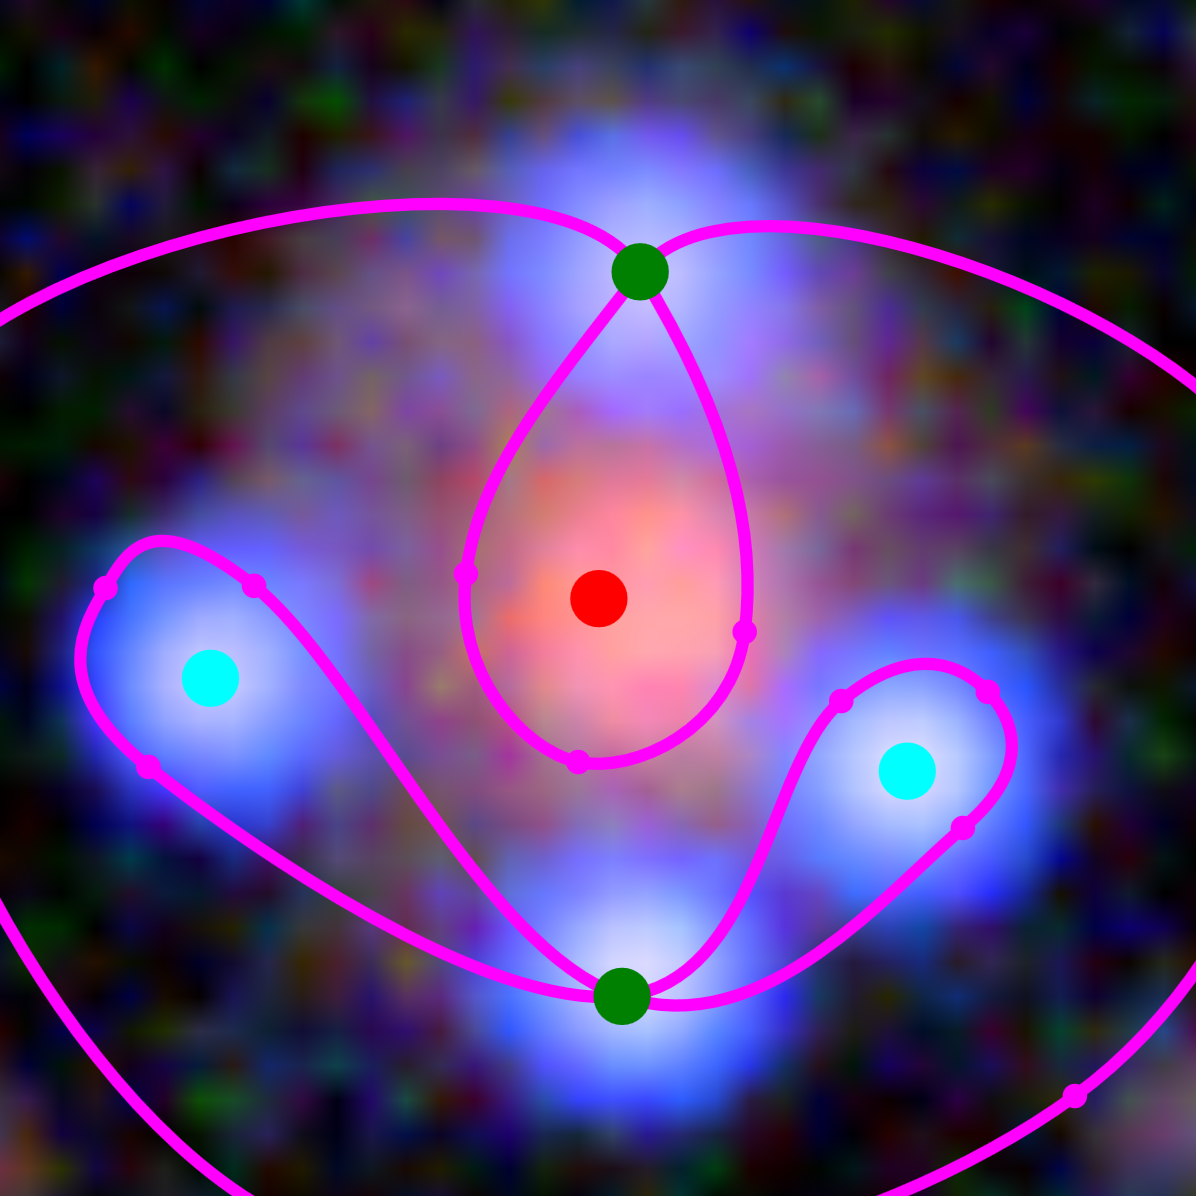
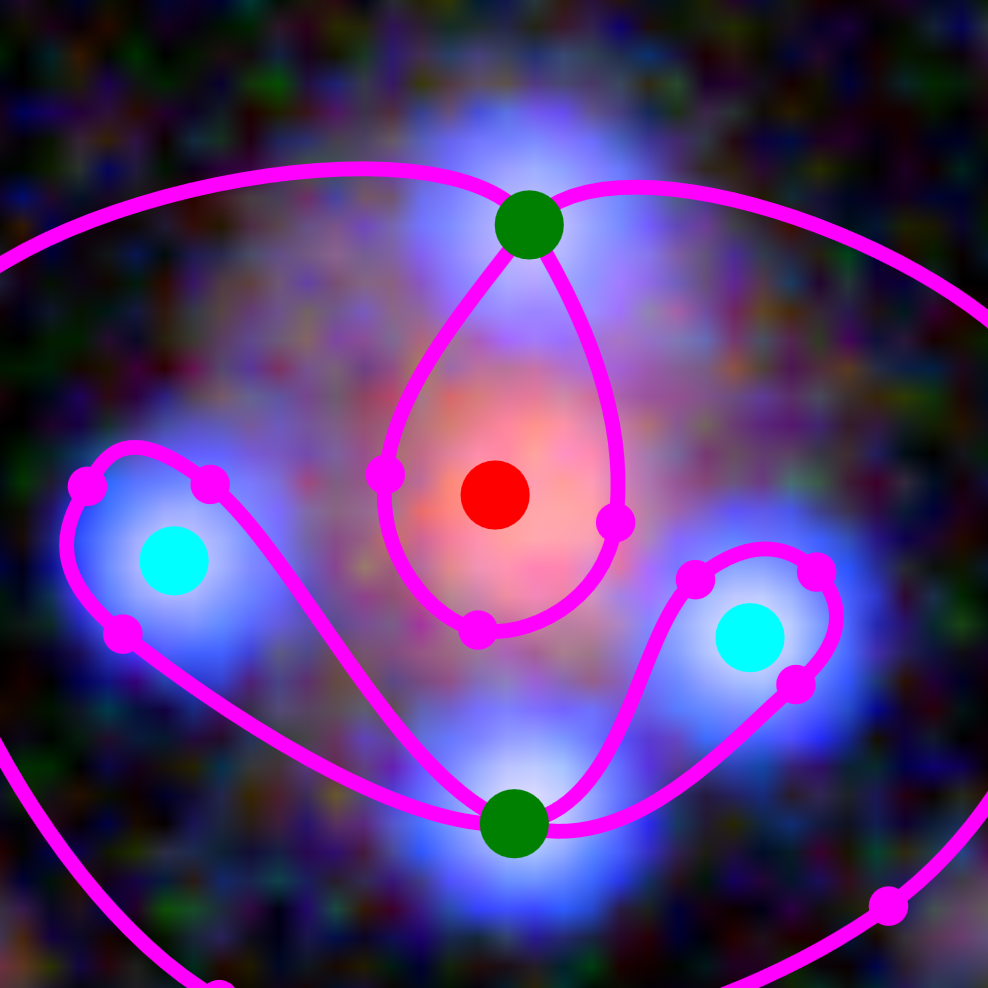
uniform inp imgs

diff --git a/plots/adv_inp/grab_svg.js b/plots/adv_inp/grab_svg.js
@@ -42,16 +42,34 @@ mids = "
     canvas.style.width  = '2048px';
     canvas.style.height = '2048px';
 
-    var f = 2; //scale factor for line widths ect..
+    //var f = 2; //scale factor for line widths ect..
+
+    // new element sizes
+    var scale = LMT.settings.display.zoompan.scale;
+    var mapescales = {6915: 0.632, 6919: 1.642, 7022: 0.9865, 7025: 1.112, 6990: 1.3635, 6937: 1.1265, 6941: 0.9645, 6975: 2.145}; // derrived scaling factors from map extent (0.2 is default = fact 1)
+    // using scales.py with:  {key: round(value/0.2, 6) for (key, value) in sc2.items()}
     
-    //$(".contourpath").css({stroke:"blue"})
+    var f = 0.20; // general relative scaling factor for points / contours
+    
+    //get total scale
+    //var tsc = mapescales[LMT.GET.rid] / scale * f;
+    var tsc = mapescales[LMT.GET.rid] * f;
+    
+    var cpnt = 4 * tsc ;
+    var epnt = 7 * tsc;
+    var line = 3 * tsc;
     
     $(".contourpath").each(function(){
-        var $t = $(this);
-        var sw = parseFloat($t.attr("stroke-width"));
-        $t.attr({"stroke-width": String(sw*f)});
+        $(this).attr({"stroke-width": String(line)});
     });
 
+    $(".contourpoint").each(function(){
+        $(this).attr({"r": String(cpnt)});
+    });
+    
+    $(".extremalpoint").each(function(){
+        $(this).attr({"r": String(epnt)});
+    });    
   
     // first add css to the svg!!
     // make a clone and add css to the clone
